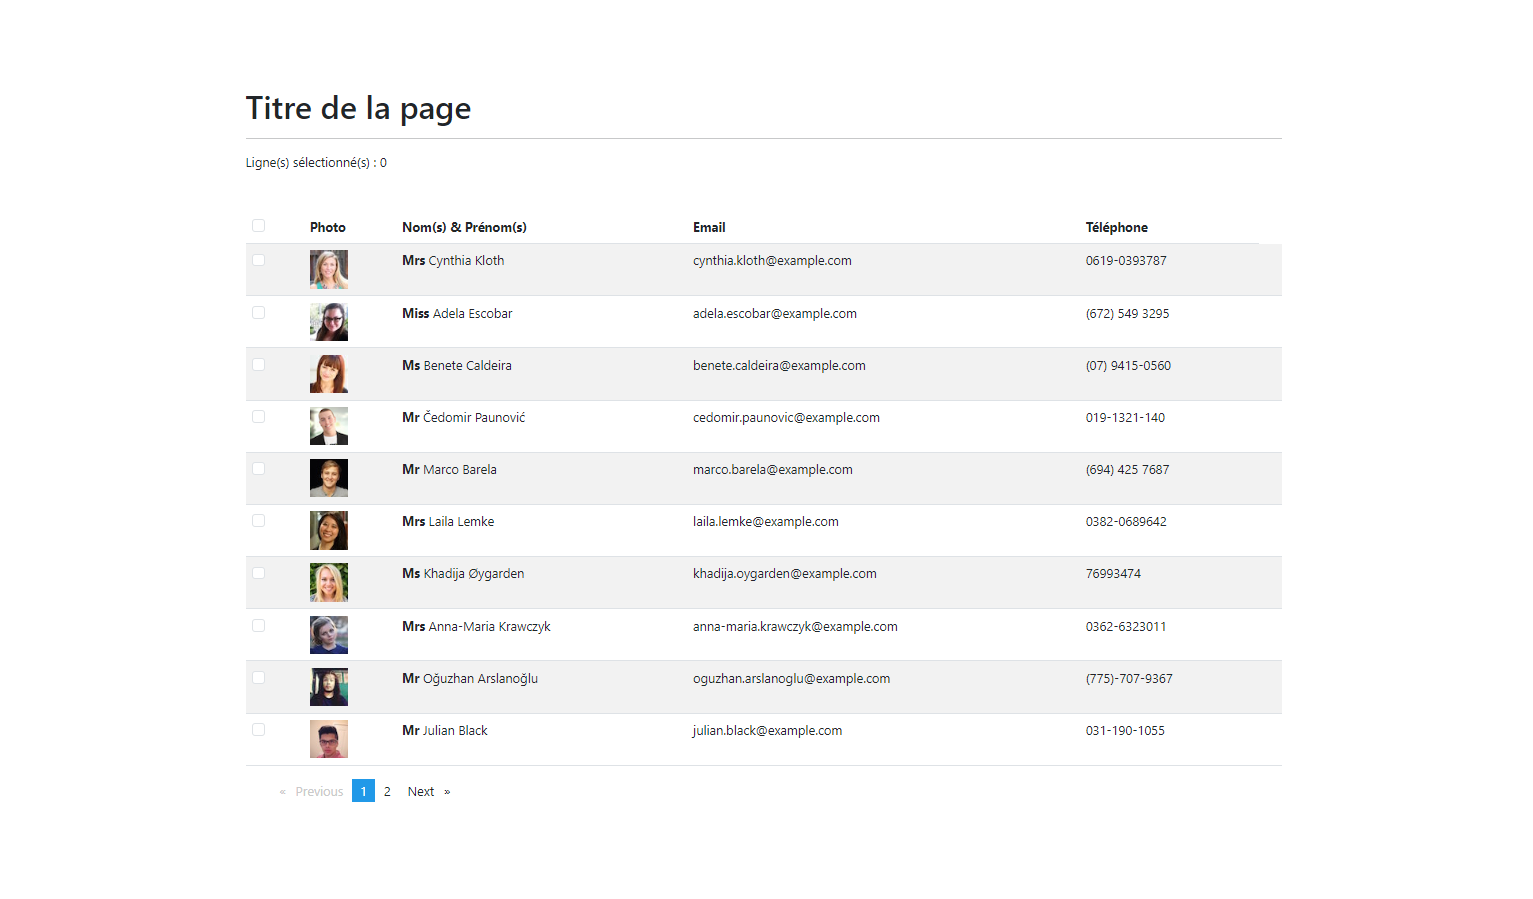
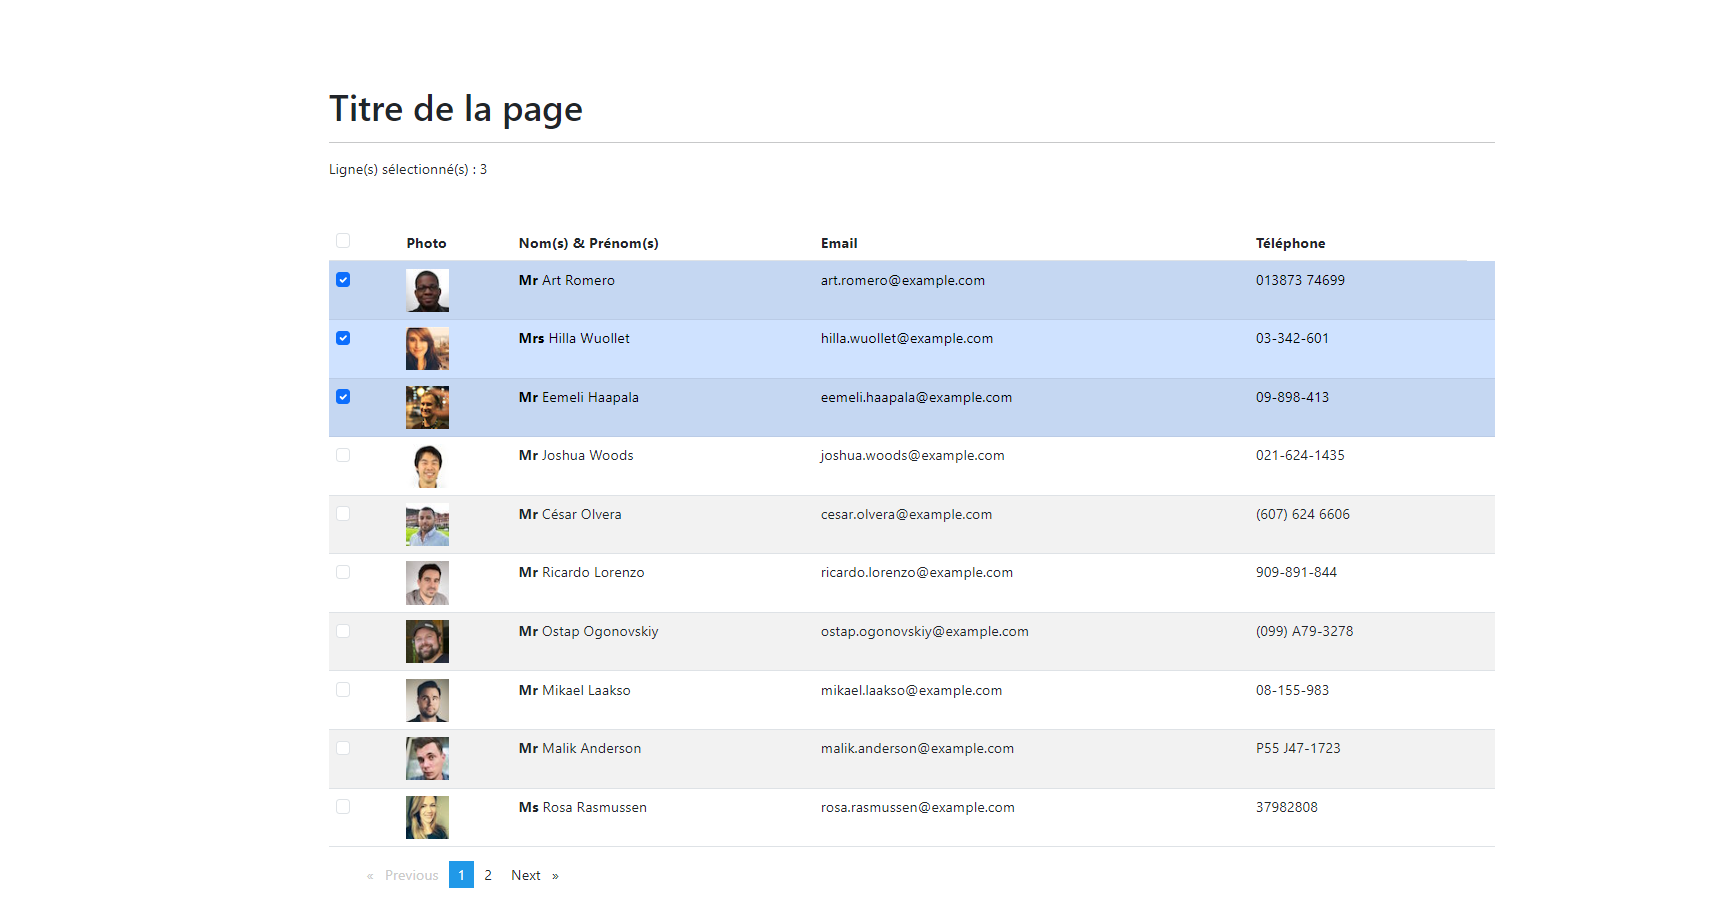
ajout de couleur de fond pour ligne sélectionnée

diff --git a/src/app/table/table.component.html b/src/app/table/table.component.html
@@ -1,45 +1,47 @@
- <div class="container">
-    <h1>Titre de la page</h1>
-     <hr>
-     <div class="row">
-         <div class="col-6">
-             Ligne(s) sélectionné(s) : {{ idSelected.length }}
-         </div>
-     </div>
-     <br><br>
-    <table class="table table-striped">
-      <thead>
-        <tr>
-          <th>
-              <div class="form-check">
-                  <input class="form-check-input" type="checkbox" [(ngModel)]="isCheckedAll" (change)="toggleCheckAll()">
-              </div>
-          </th>
-          <th>Photo</th>
-          <th>Nom(s) & Prénom(s)</th>
-          <th>Email</th>
-          <th>Téléphone</th>
-        </tr>
-      </thead>
-      <tbody>
-        <tr *ngFor="let person of users | paginate: { itemsPerPage: 10, currentPage: p }; let i = index">
-          <td>
-              <div class="form-check">
-                  <input class="form-check-input" type="checkbox" [(ngModel)]="person.isChecked" (change)="selectPerson(person.id.value)"  [checked]="isCheckedAll">
-              </div>
-          </td>
-          <td>
-              <img [src]="person.picture.thumbnail" alt="">
-          </td>
-          <td> <b>{{ person.name.title }}</b> {{ person.name.first }} {{ person.name.last }}</td>
-          <td>{{ person.email }}</td>
-          <td>{{ person.phone }}</td>
-          <td>{{ person.genre }}</td>
-        </tr>
-        <!-- Ajoutez les 18 autres lignes ici -->
-      </tbody>
-    </table>
-     <div class="pagination">
-  <pagination-controls (pageChange)="p = $event"></pagination-controls>
-</div>
+<div class="container">
+  <h1>Titre de la page</h1>
+  <hr>
+  <div class="row">
+    <div class="col-6">
+      Ligne(s) sélectionné(s) : {{ idSelected.length }}
+    </div>
   </div>
+  <br><br>
+  <table class="table table-striped">
+    <thead>
+      <tr>
+        <th>
+          <div class="form-check">
+            <input class="form-check-input" type="checkbox" [(ngModel)]="isCheckedAll" (change)="toggleCheckAll()">
+          </div>
+        </th>
+        <th>Photo</th>
+        <th>Nom(s) & Prénom(s)</th>
+        <th>Email</th>
+        <th>Téléphone</th>
+      </tr>
+    </thead>
+    <tbody>
+      <tr *ngFor="let person of users | paginate: { itemsPerPage: 10, currentPage: p }"
+        [ngClass]="{'table-primary': person.isChecked}">
+        <td>
+          <div class="form-check">
+            <input class="form-check-input" type="checkbox" [(ngModel)]="person.isChecked"
+              (change)="selectPerson(person.id.value)" [checked]="isCheckedAll">
+          </div>
+        </td>
+        <td>
+          <img [src]="person.picture.thumbnail" alt="">
+        </td>
+        <td> <b>{{ person.name.title }}</b> {{ person.name.first }} {{ person.name.last }}</td>
+        <td>{{ person.email }}</td>
+        <td>{{ person.phone }}</td>
+        <td>{{ person.genre }}</td>
+      </tr>
+      <!-- Ajoutez les 18 autres lignes ici -->
+    </tbody>
+  </table>
+  <div class="pagination">
+    <pagination-controls (pageChange)="p = $event"></pagination-controls>
+  </div>
+</div>

diff --git a/src/app/table/table.component.ts b/src/app/table/table.component.ts
@@ -1,9 +1,9 @@
 import { Component, OnInit } from '@angular/core';
 import { HttpClient } from '@angular/common/http';
 @Component({
-  selector: 'app-table',
-  templateUrl: './table.component.html',
-  styleUrls: ['./table.component.scss']
+    selector: 'app-table',
+    templateUrl: './table.component.html',
+    styleUrls: ['./table.component.scss']
 })
 export class TableComponent implements OnInit {
     isLoad = true;
@@ -14,7 +14,7 @@ export class TableComponent implements OnInit {
     constructor(private http: HttpClient) {
     }
     ngOnInit() {
-    this.getRandomUsers()
+        this.getRandomUsers()
     }
 
     getRandomUsers() {
@@ -26,22 +26,22 @@ export class TableComponent implements OnInit {
         });
     }
 
-     toggleCheckAll() {
-         if(this.isCheckedAll === false) {
-             this.idSelected = []
-         } else {
-             this.idSelected = []
+    toggleCheckAll() {
+        if (this.isCheckedAll === false) {
+            this.idSelected = []
+        } else {
+            this.idSelected = []
             this.users.forEach((user: any) => {
-              user.isChecked = this.isCheckedAll;
-              this.idSelected.push(user.id.value)
+                user.isChecked = this.isCheckedAll;
+                this.idSelected.push(user.id.value)
             });
-         }
+        }
     }
 
     selectPerson(id: any) {
         const person = this.users.find((user: any) => user.id.value === id);
         const index = this.idSelected.indexOf(id);
-        if(index === -1) {
+        if (index === -1) {
             this.idSelected.push(id)
         } else {
             this.idSelected.splice(index, 1)

diff --git a/src/app/table/table.component.scss b/src/app/table/table.component.scss
@@ -1,3 +1,7 @@
 .container {
     margin-top: 10vh;
 }
+
+.active {
+    background-color: rgba(46, 46, 140, 0.487) !important;
+}
